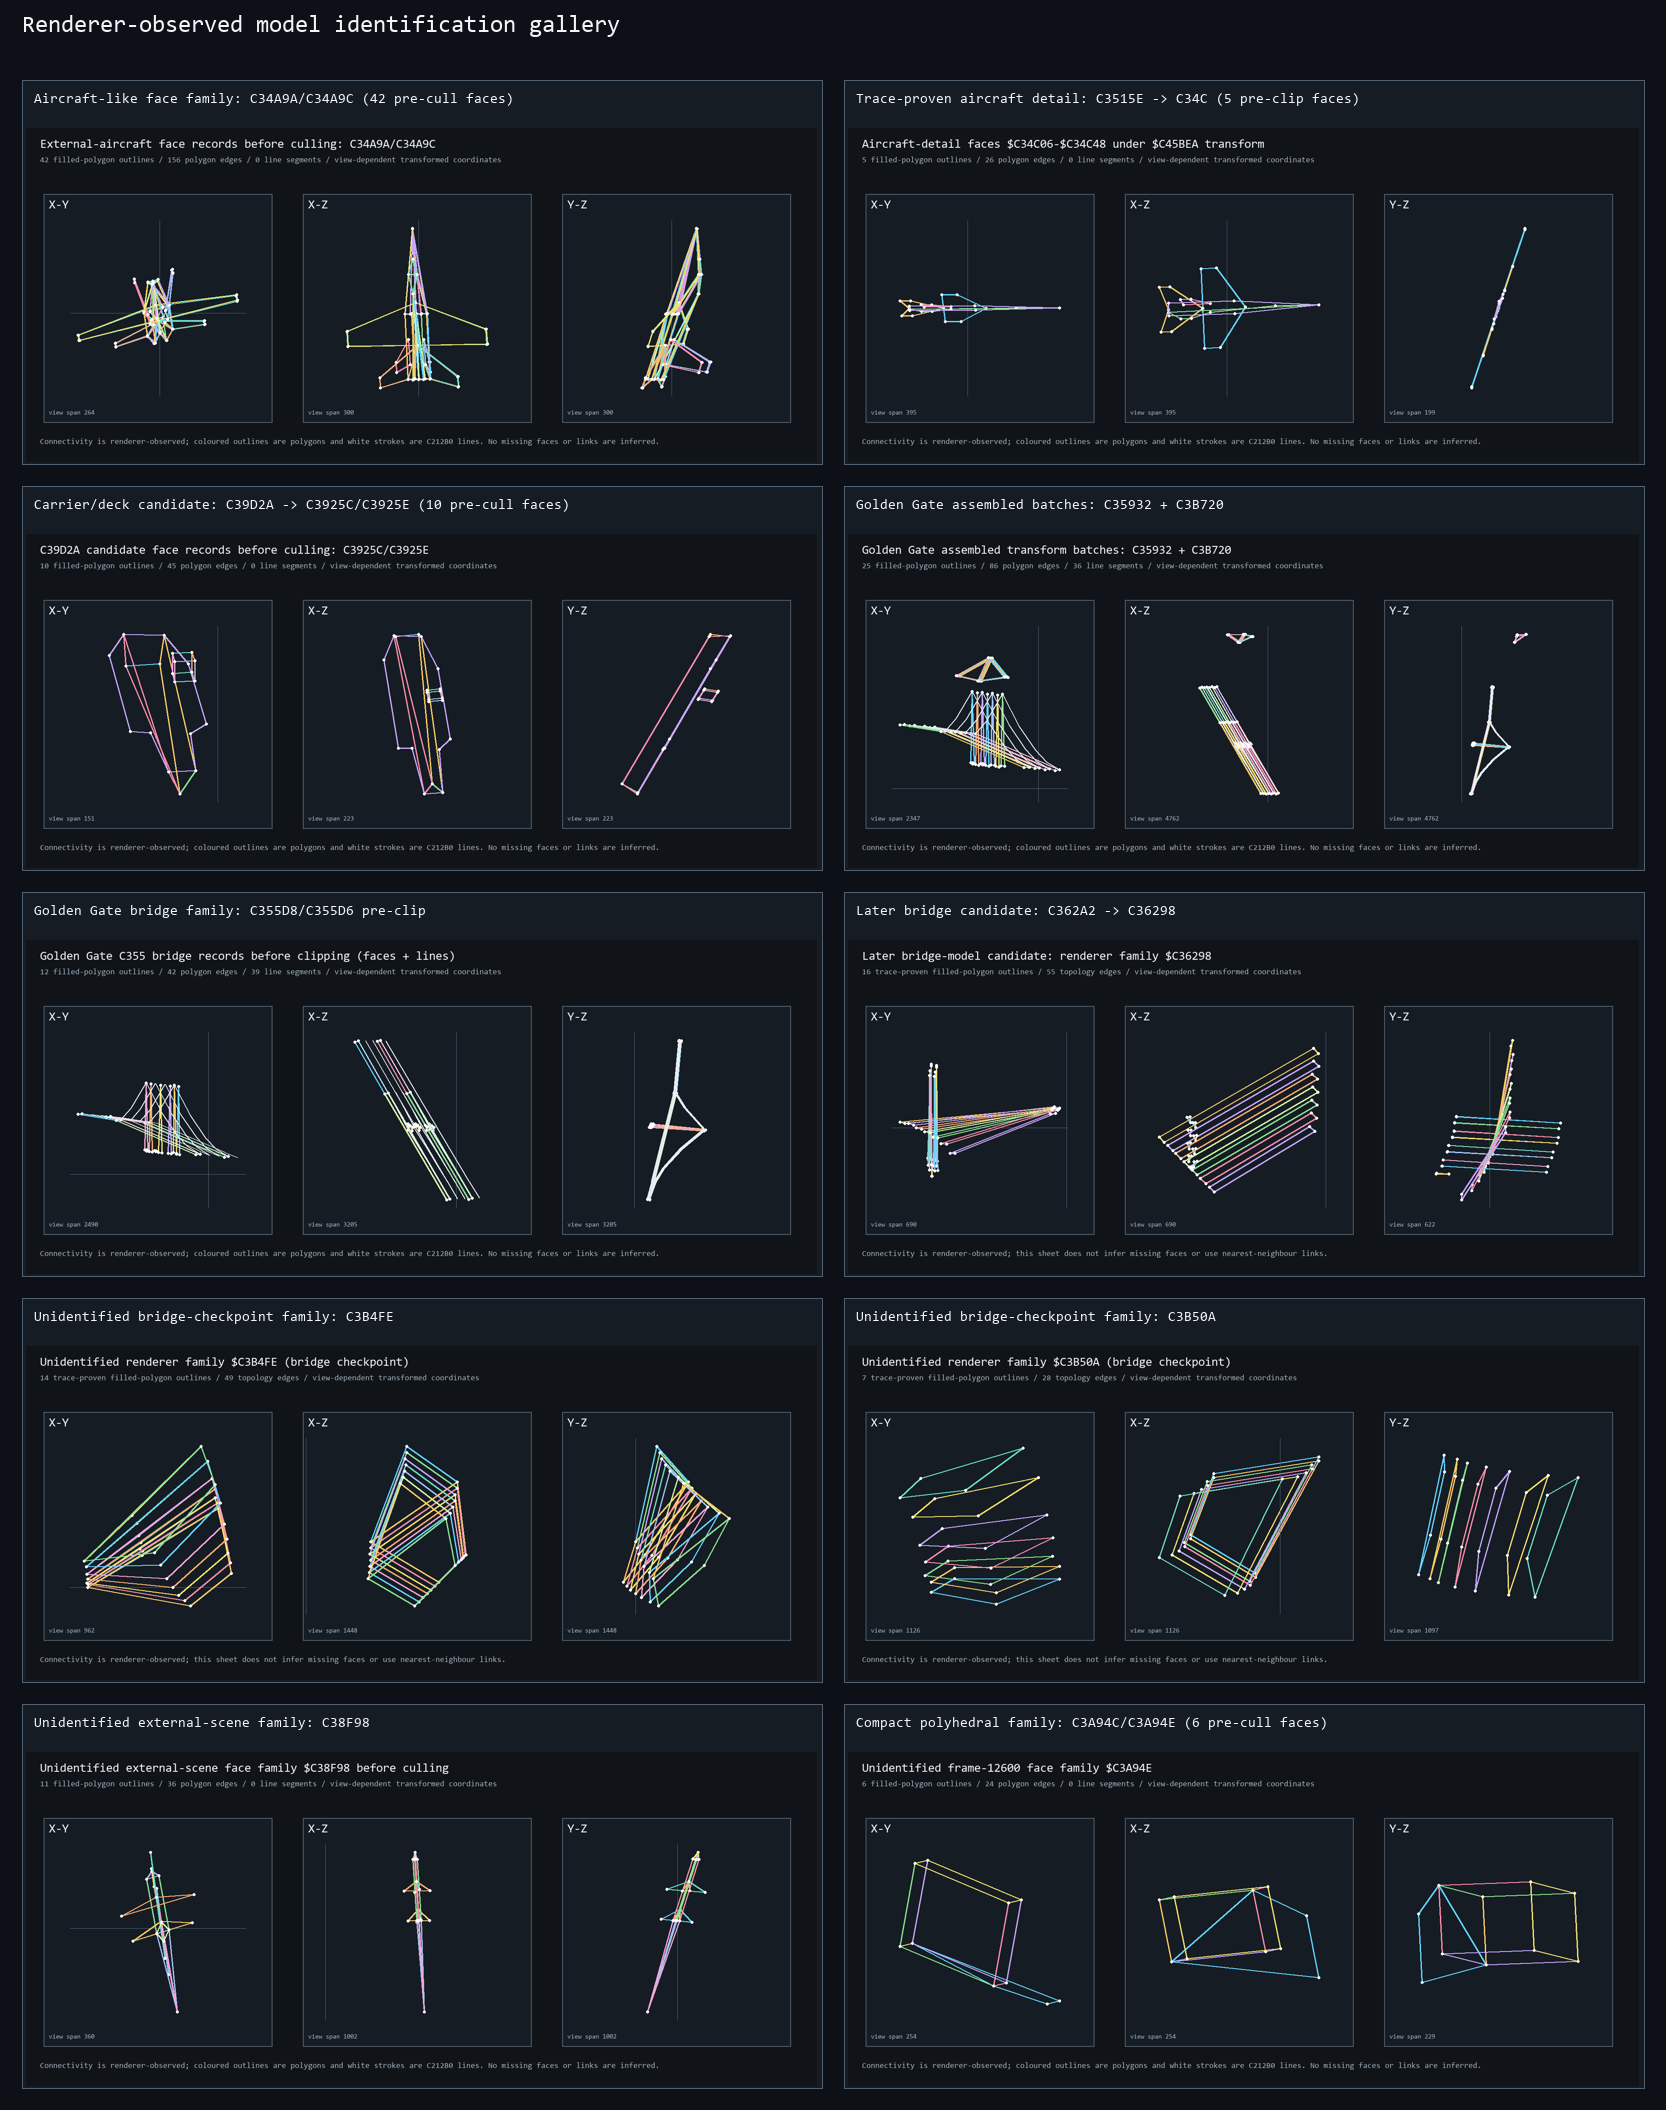
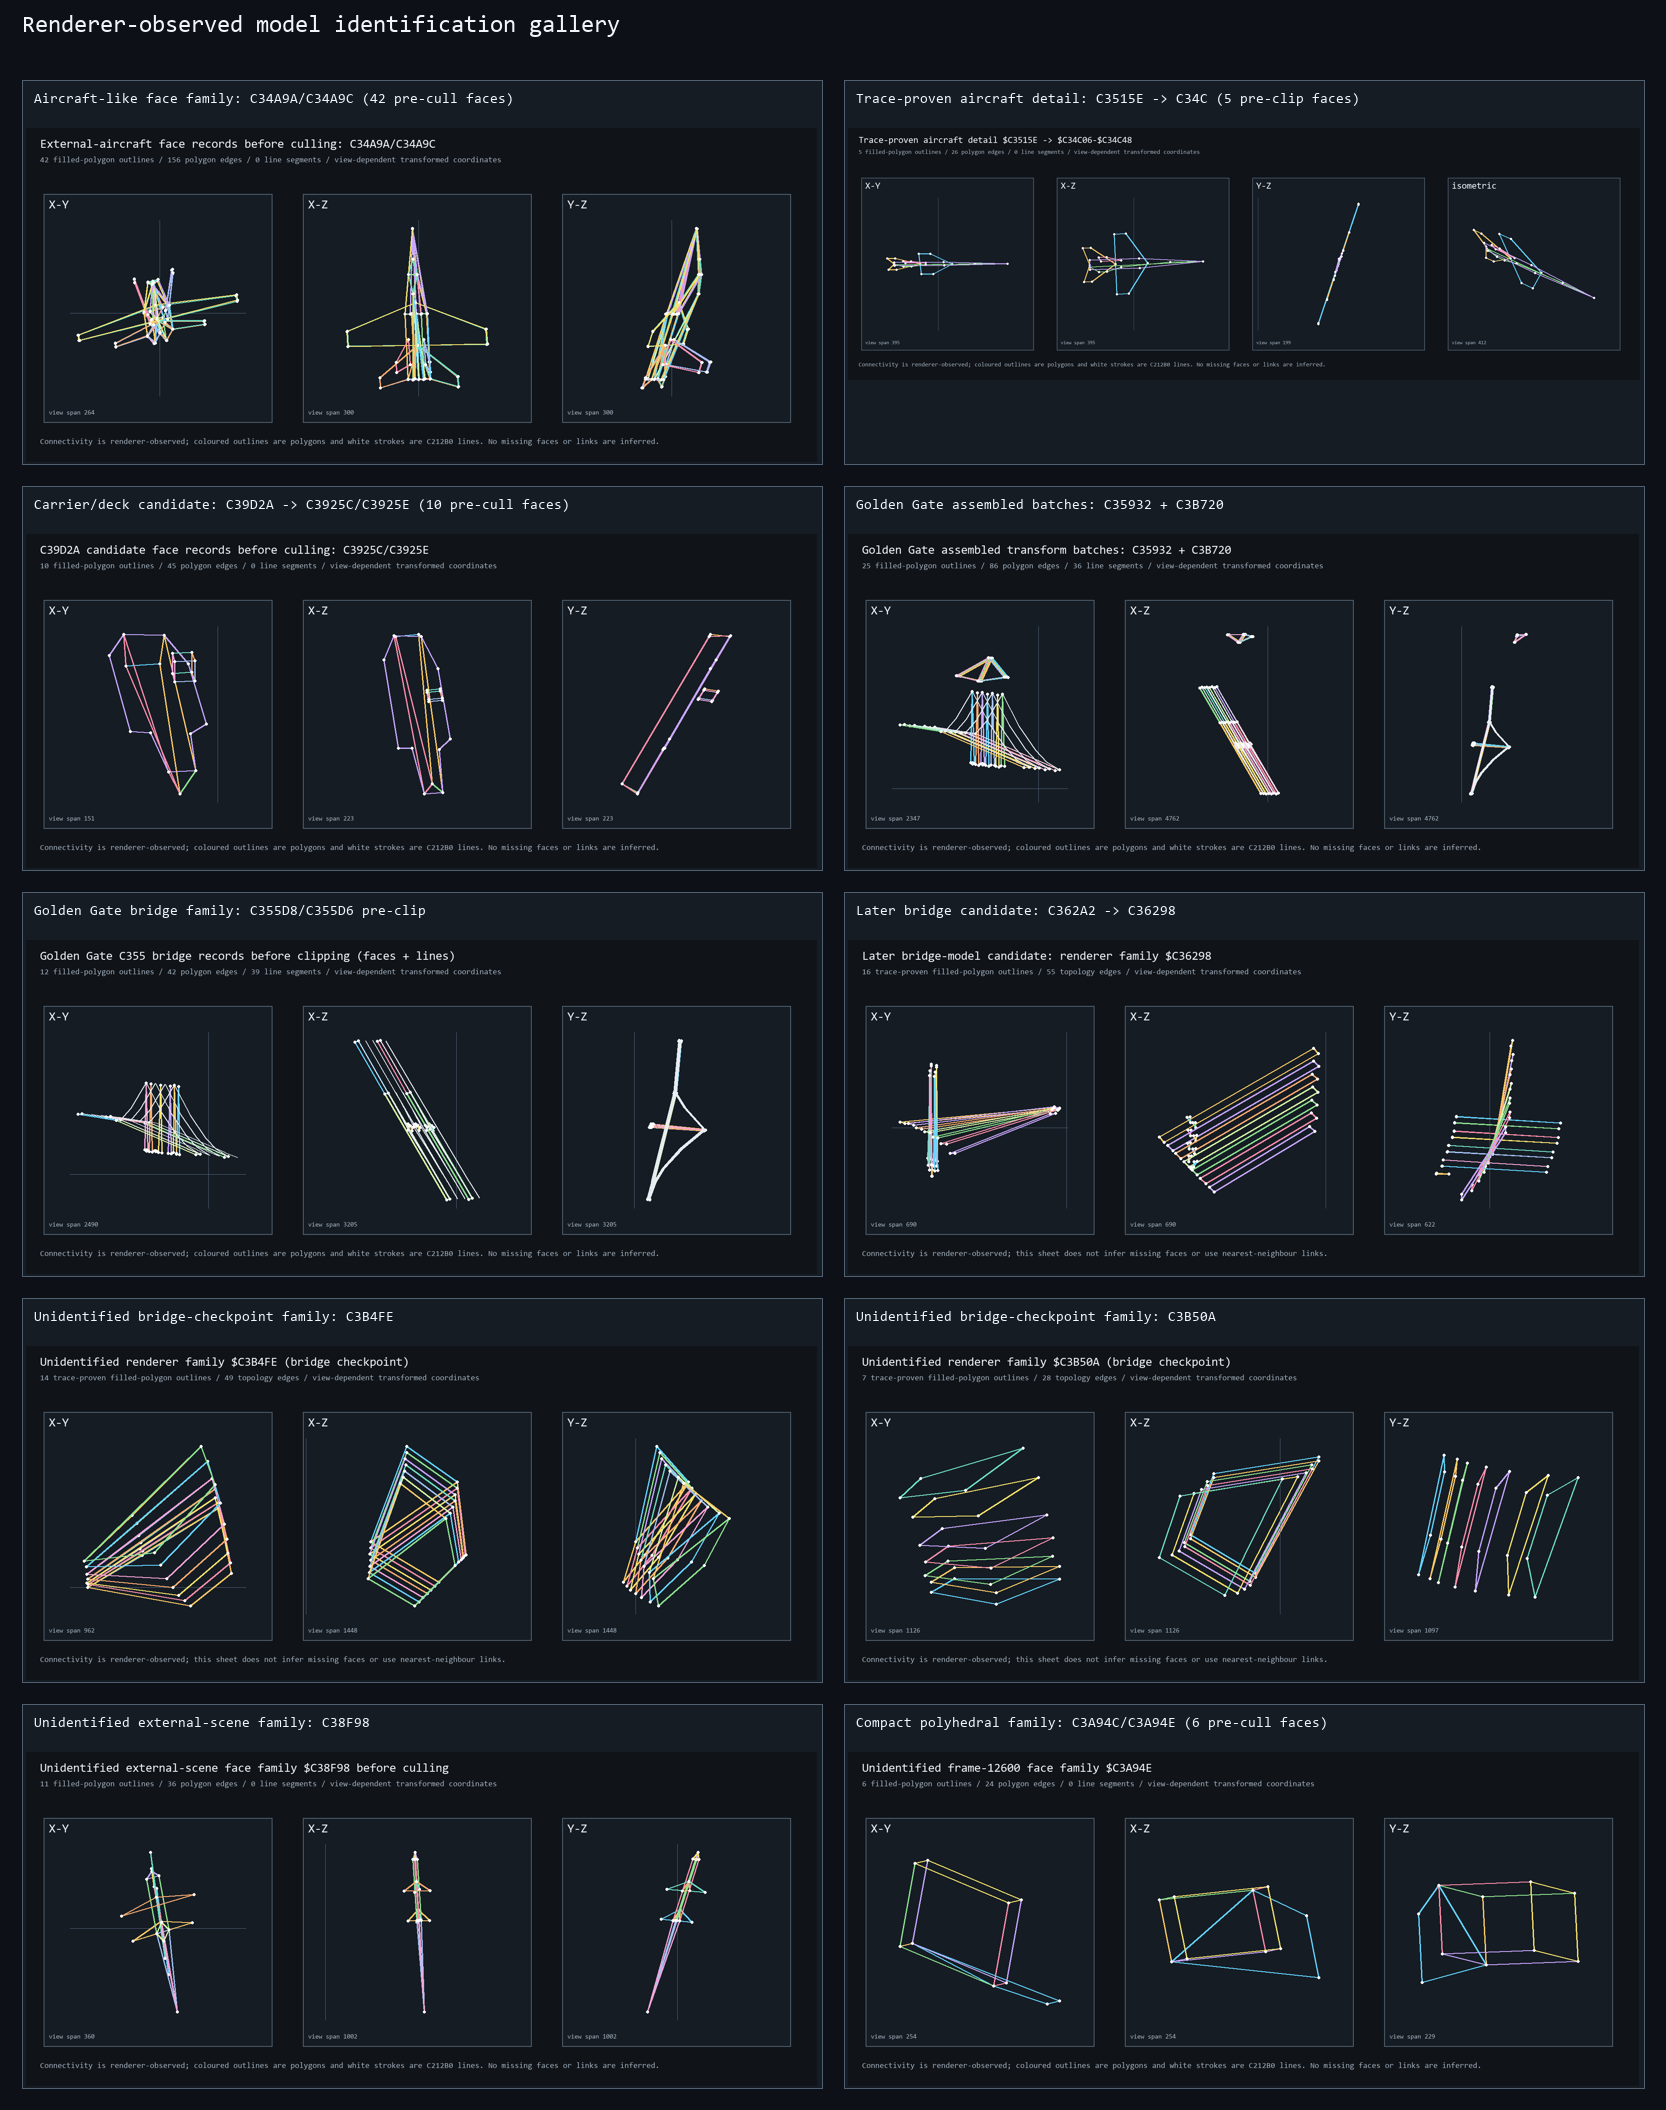
Add isometric view for traced aircraft detail

diff --git a/scripts/render_external_aircraft_model_sheet.py b/scripts/render_external_aircraft_model_sheet.py
@@ -33,6 +33,8 @@ def main() -> None:
                         help="select one occurrence within an instance-source batch")
     parser.add_argument("--title", default="External-aircraft model candidate: $C3515E -> $C34A9A")
     parser.add_argument("--fit", action="store_true", help="centre and scale each view to its observed geometry")
+    parser.add_argument("--isometric", action="store_true",
+                        help="append an isometric projection using the same observed polygon vertices")
     args = parser.parse_args()
     inputs = args.input or [DEFAULT_INPUT]
     inputs = [path.resolve() for path in inputs]
@@ -75,7 +77,8 @@ def main() -> None:
     points.extend(point for segment in line_segments for point in segment)
     edge_count = sum(len(polygon) for polygon in polygons)
     extent = max(abs(value) for point in points for value in point)
-    width, height, panel, margin = 1800, 760, 520, 60
+    panel, margin = 520, 60
+    width, height = (2390 if args.isometric else 1800), 760
     image = Image.new("RGB", (width, height), "#101419")
     draw = ImageDraw.Draw(image)
     title_font, text_font, small_font = font(28), font(18), font(15)
@@ -86,15 +89,20 @@ def main() -> None:
         fill="#aab7c4",
         font=text_font,
     )
-    views = (("X-Y", 0, 1), ("X-Z", 0, 2), ("Y-Z", 1, 2))
+    views = [("X-Y", lambda point: (point[0], point[1])),
+             ("X-Z", lambda point: (point[0], point[2])),
+             ("Y-Z", lambda point: (point[1], point[2]))]
+    if args.isometric:
+        views.append(("isometric", lambda point: (point[0] - point[1], point[2] - (point[0] + point[1]) / 2)))
     colours = ("#65d5ff", "#ffcc66", "#8ee28e", "#ff8fab", "#c9a7ff", "#f7e36b",
                "#70e0c4", "#ffad70", "#a4c2f4", "#f4a4d7", "#d8f4a4")
-    for index, (label, horizontal, vertical) in enumerate(views):
+    for index, (label, project) in enumerate(views):
         left, top = 40 + index * 590, 150
         centre_x, centre_y = left + panel / 2, top + panel / 2
+        projected_points = [project(point) for point in points]
         if args.fit:
-            values_x = [point[horizontal] for point in points]
-            values_y = [point[vertical] for point in points]
+            values_x = [point[0] for point in projected_points]
+            values_y = [point[1] for point in projected_points]
             model_x = (min(values_x) + max(values_x)) / 2
             model_y = (min(values_y) + max(values_y)) / 2
             view_extent = max(1, max(max(values_x) - min(values_x), max(values_y) - min(values_y)) / 2)
@@ -111,18 +119,19 @@ def main() -> None:
         draw.text((left + 12, top + 12), label, fill="#f1f5f9", font=title_font)
         draw.text((left + 12, top + panel - 30), f"view span {view_extent * 2:.0f}", fill="#aab7c4", font=small_font)
         for polygon_index, polygon in enumerate(polygons):
-            projected = [(centre_x + (point[horizontal] - model_x) * scale,
-                          centre_y - (point[vertical] - model_y) * scale)
-                         for point in polygon]
+            projected = [(centre_x + (point[0] - model_x) * scale,
+                          centre_y - (point[1] - model_y) * scale)
+                         for point in (project(vertex) for vertex in polygon)]
             projected.append(projected[0])
             draw.line(projected, fill=colours[polygon_index % len(colours)], width=3, joint="curve")
             for x, y in projected[:-1]:
                 draw.ellipse((x - 3, y - 3, x + 3, y + 3), fill="#ffffff")
         for first, second in line_segments:
-            draw.line((centre_x + (first[horizontal] - model_x) * scale,
-                       centre_y - (first[vertical] - model_y) * scale,
-                       centre_x + (second[horizontal] - model_x) * scale,
-                       centre_y - (second[vertical] - model_y) * scale),
+            first_projected, second_projected = project(first), project(second)
+            draw.line((centre_x + (first_projected[0] - model_x) * scale,
+                       centre_y - (first_projected[1] - model_y) * scale,
+                       centre_x + (second_projected[0] - model_x) * scale,
+                       centre_y - (second_projected[1] - model_y) * scale),
                       fill="#e8edf3", width=2)
     draw.text((32, 705), "Connectivity is renderer-observed; coloured outlines are polygons and white strokes are C212B0 lines. No missing faces or links are inferred.", fill="#aab7c4", font=text_font)
     args.output.parent.mkdir(exist_ok=True)

diff --git a/scripts/render_model_identification_gallery.py b/scripts/render_model_identification_gallery.py
@@ -14,7 +14,7 @@ ITEMS = (
     ("Aircraft-like face family: C34A9A/C34A9C (42 pre-cull faces)",
      "external_aircraft_c34a9_preclip_complete_face_sheet.png"),
     ("Trace-proven aircraft detail: C3515E -> C34C (5 pre-clip faces)",
-     "c34c_aircraft_detail_preclip_unique_face_sheet.png"),
+     "c3515e_c34c_aircraft_detail_isometric_sheet.png"),
     ("Carrier/deck candidate: C39D2A -> C3925C/C3925E (10 pre-cull faces)",
      "c39d2a_c3925_preclip_complete_face_sheet.png"),
     ("Golden Gate assembled batches: C35932 + C3B720", "golden_gate_assembled_transform_batches_model_sheet.png"),

diff --git a/analysis/data/model_identification_catalog.md b/analysis/data/model_identification_catalog.md
@@ -6,7 +6,7 @@ Each sheet is a tight-fit orthographic X-Y / X-Z / Y-Z plot. A coloured closed o
 
 | Candidate / family | Renderer evidence | Current identification | Sheet |
 | --- | --- | --- | --- |
-| `$C3515E` to `$C34C06-$C34C48` | 22 immutable input triples -> `$C46228-$C462A6` -> 5 pre-clip faces / 26 edges; one bounded no-future-input trace | trace-proven tapered external-aircraft detail model; user-facing name remains provisional | [evidence](c34c_aircraft_detail_face_family.md) Â· [sheet](../plots/c34c_aircraft_detail_preclip_unique_face_sheet.png) |
+| `$C3515E` to `$C34C06-$C34C48` | 22 immutable input triples -> `$C46228-$C462A6` -> 5 pre-clip faces / 26 edges; one bounded no-future-input trace | trace-proven tapered external-aircraft detail model; user-facing name remains provisional | [evidence](c34c_aircraft_detail_face_family.md) Â· [orthographic + isometric](../plots/c3515e_c34c_aircraft_detail_isometric_sheet.png) |
 | `$C34A9A/$C34A9C` | 42 unique pre-cull faces, 156 polygon edges; uses separate `$C48390` workspace in sampled frame | aircraft-like renderer family; immutable source linkage pending | [complete pre-cull sheet](../plots/external_aircraft_c34a9_preclip_complete_face_sheet.png) |
 | `$C39D2A` to `$C3925C/$C3925E` | 10 unique pre-cull faces, 45 polygon edges; static transform and both face contexts traced | **user-identified aircraft-carrier deck/island** candidate | [complete pre-cull sheet](../plots/c39d2a_c3925_preclip_complete_face_sheet.png) |
 | `$C35932` / `$C3B720` batches | 25 polygons, 86 polygon edges, 36 line segments; bounded transform-batch capture | broadest partial Golden Gate bridge composite | [assembled sheet](../plots/golden_gate_assembled_transform_batches_model_sheet.png) |

diff --git a/analysis/data/c34c_aircraft_detail_face_family.md b/analysis/data/c34c_aircraft_detail_face_family.md
@@ -2,6 +2,8 @@
 
 [Open the orthographic sheet](../plots/c34c_aircraft_detail_preclip_unique_face_sheet.png).
 
+[Open the orthographic + isometric sheet](../plots/c3515e_c34c_aircraft_detail_isometric_sheet.png).
+
 At the Golden Gate checkpoint, five distinct records in this range reach the
 pre-clip polygon routine through `$C203C4`. They contain 26 total polygon
 edges and are rendered with `$C45BEA` as the active transform/display context.
